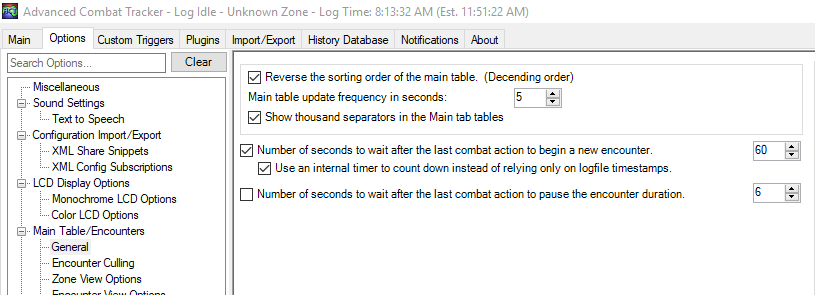
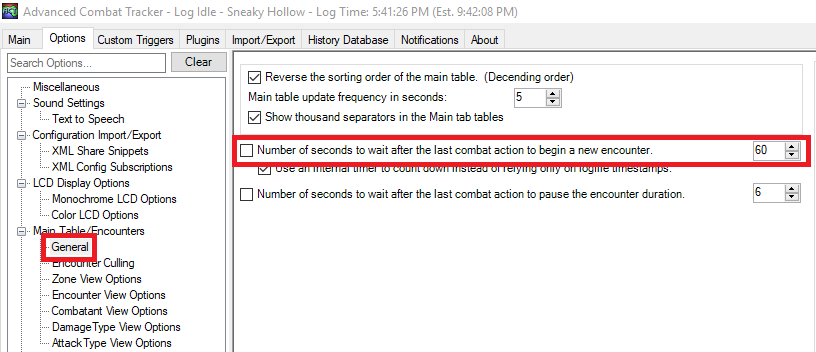
Revised ACT encounter end setting

Changed region(s): [[0.0, 0.0915, 1.0, 1.0], [0.0, 0.0, 0.6442, 0.061], [0.2761, 0.6102, 0.8589, 0.7017]]

diff --git a/setup/README.md b/setup/README.md
@@ -109,7 +109,7 @@ The OverlayPlugin should now be setup. Click on the `X` to close the **Get Plugi
 
 It is recommended to use OverlayPlugin's in/out-of-combat detection to split encounters, rather than ACT's less accurate behavior.
 
-To do this, first set ACT's encounter split timeout (Options > Main Table/Encounters > General) to a large value, such as 60 seconds (or even higher, for duties with long cutscenes):
+To do this, first find ACT's encounter split timeout (Options > Main Table/Encounters > General). Either disable it entirely by un-checking the box, or set it to a relatively large value:
 
 ![act timeout settings](resources/act_timeout_settings.png)
 
